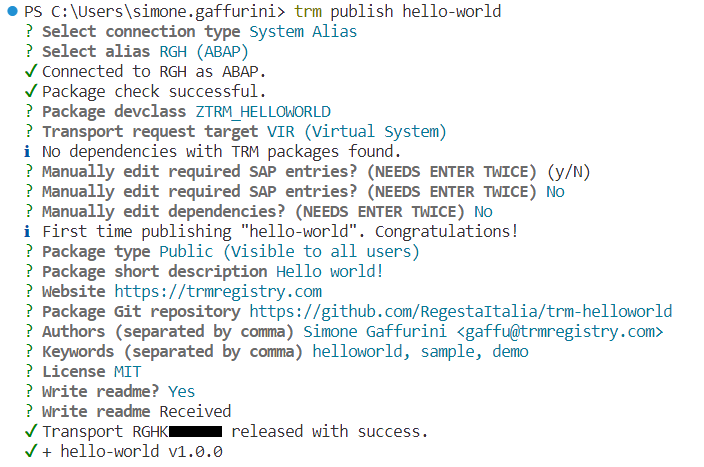
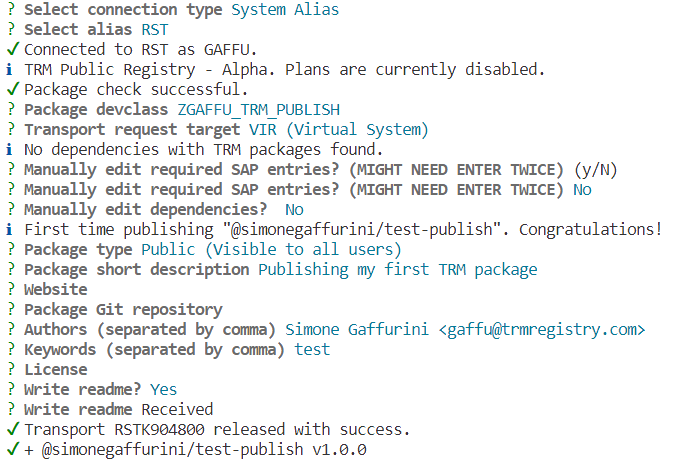
Update docs

diff --git a/client/docs/examples/publish.md b/client/docs/examples/publish.md
@@ -2,13 +2,96 @@
 
 In this tutorial we're going to see how to publish a package to a registry.
 
-**Prerequisite**
-- Logged into [public registry](https://docs.trmregistry.com/#/registry/public/authentication)/Custom registry implemented
+## Prerequisite
+- [trm-client](/client/docs/setup.md) installed on your pc
+    - Logged into [public registry](https://docs.trmregistry.com/#/registry/public/authentication)/Custom registry implemented
 - Development system with
-    - trm-server installed
-    - Custom package with objects created
+    - [trm-server](/server/docs/setup.md) installed
+    - Custom Z package with objects
 
+## Login
 
+> This step may be skipped depending on the registry.
+
+If you haven't done it already, log into the registry.
+
+Open you CLI and run [the command](/client/docs/commands.md#login):
+
+`trm login`
+
+and, if asked, select the desired registry.
+
+To check your login was successfull, run [the command](/client/docs/commands.md#current-logged-in-user):
+
+`trm whoami`
+
+## Publish
+
+Now we're ready to publish our custom developments.
+
+Open you CLI and run [the command](/client/docs/commands.md#publish-package-from-a-system):
+
+`trm publish {{PACKAGE_NAME}}`
+
+where PACKAGE_NAME is the name of the TRM package you want to publish.
+
+In this example, the package name will be `@simonegaffurini/test-publish`.
+
+you'll be prompted with
+
+1. System connection
+
+    Here you should select how to connect to your development system.
+
+    For this demo, select **Manual input**.
+
+    Here, insert the connection values of your development system, as well as the logon data.
+
+2. Package devclass
+
+    This is where the name of your custom package on the SAP system should be typed.
+
+3. Transport request target
+
+    TRM will generate a transport of copies on the development system, so a target should be specified for release.
+
+    If you followed the recommendations, you should [use a virtual system](/client/docs/setup.md#virtual-system-recommended).
+
+4. Dependencies
+
+    Dependencies (with other TRM packages or SAP standard objects) are now automatically checked, but if something is missing they can be manually edited.
+
+5. Package visibility
+
+    The visibility of the package determines who is able to see and install the package you're about to publish.
+
+    > The public registry, in the current alpha stage, doesn't allow private packages, as they require an account paid plan.
+
+6. Manifest
+
+    Since it's the first publish of the package, you'll be prompted with some optional manifest values.
+
+    Manifests are descriptors of the content of a package.
+
+    Some of the possible properties are a short description, authors contacts and license.
+
+The package should now be published.
+
+<p align="center">
+  <img src="/_media/sample_publish.png" />
+</p>
+
+You'll notice that **version 1.0.0 has been automatically assigned**: this is because we haven't specified a version.
+
+When no version is specified during publish, the default values if **latest** which means:
+- When it's the first publish -> version 1.0.0
+- When it's already published -> latest release version patch increased
+
+You can open the [public registry website](https://trmregistry.com/) and search for your package there.
+
+<p align="center">
+  <img src="/_media/sample_publish_registry.png" />
+</p>
 
 # Packages with dependencies
 

diff --git a/client/docs/examples/install.md b/client/docs/examples/install.md
@@ -20,10 +20,9 @@ You'll also need to have [trm-server](https://docs.trmregistry.com/#/server/READ
 
 This package is publicly available on [the public registry](https://trmregistry.com/#/package/hello-world).
 
-To start, run [the command](https://docs.trmregistry.com/#/client/commands?id=install-package-on-a-system)
-`
-trm install hello-world
-`
+To start, run [the command](/client/docs/commands.md#install-package-on-a-system):
+
+`trm install hello-world`
 
 you'll be prompted with
 
